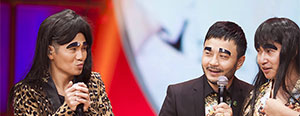
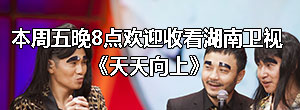
图片

diff --git a/index.html b/index.html
@@ -101,7 +101,7 @@
                 </div>
                 <br/>
                 <div class="ad">
-                    本周五晚8点欢迎收看湖南卫视《天天向上》
+                    <img src="back.jpg">
                 </div>
             </div>
             <div class="content pause">
@@ -115,7 +115,7 @@
                 </div>
                 <br/>
                 <div class="ad">
-                    本周五晚8点欢迎收看湖南卫视《天天向上》
+                   <img src="back.jpg">
                 </div>
 
             </div>

diff --git a/m.css b/m.css
@@ -307,11 +307,12 @@ body>a{ display: none; }
 
 .ad{
     margin: auto;
-    text-align: center;
     width: 80%;
-    padding:8% 5%;
     color: #f5f5f3;
-    background: url("back.jpg") no-repeat;
-    background-size: cover;
     font-size: 16px;
+}
+
+.ad img{
+    width: 100%;
+    height: 100%;
 }
